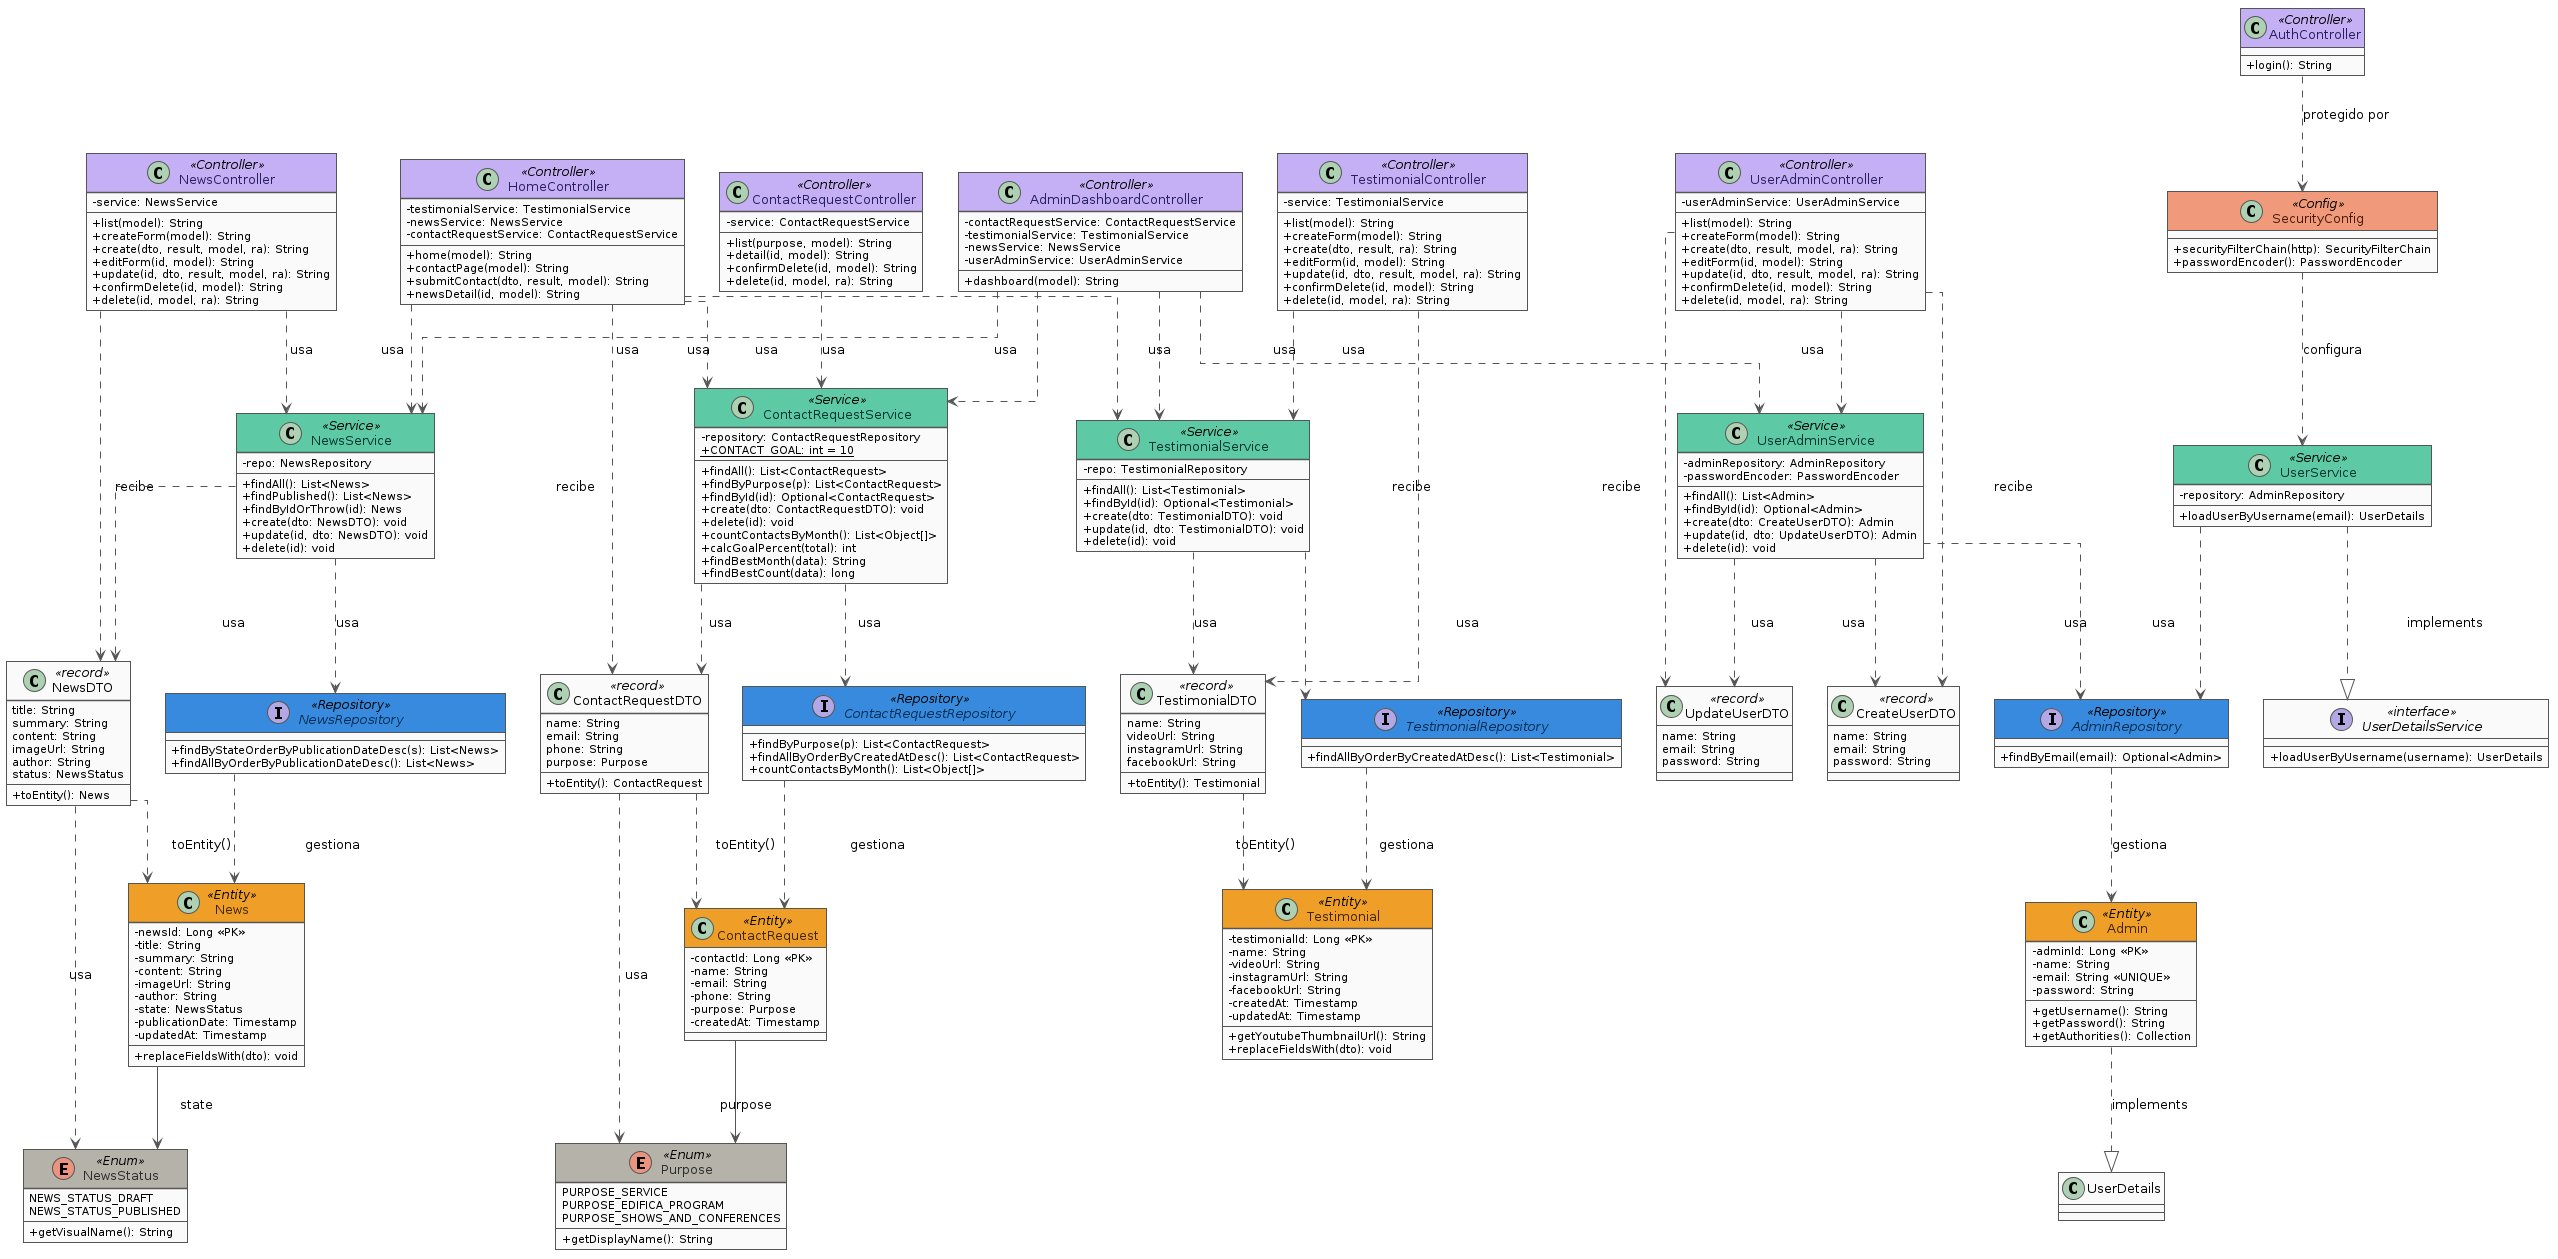
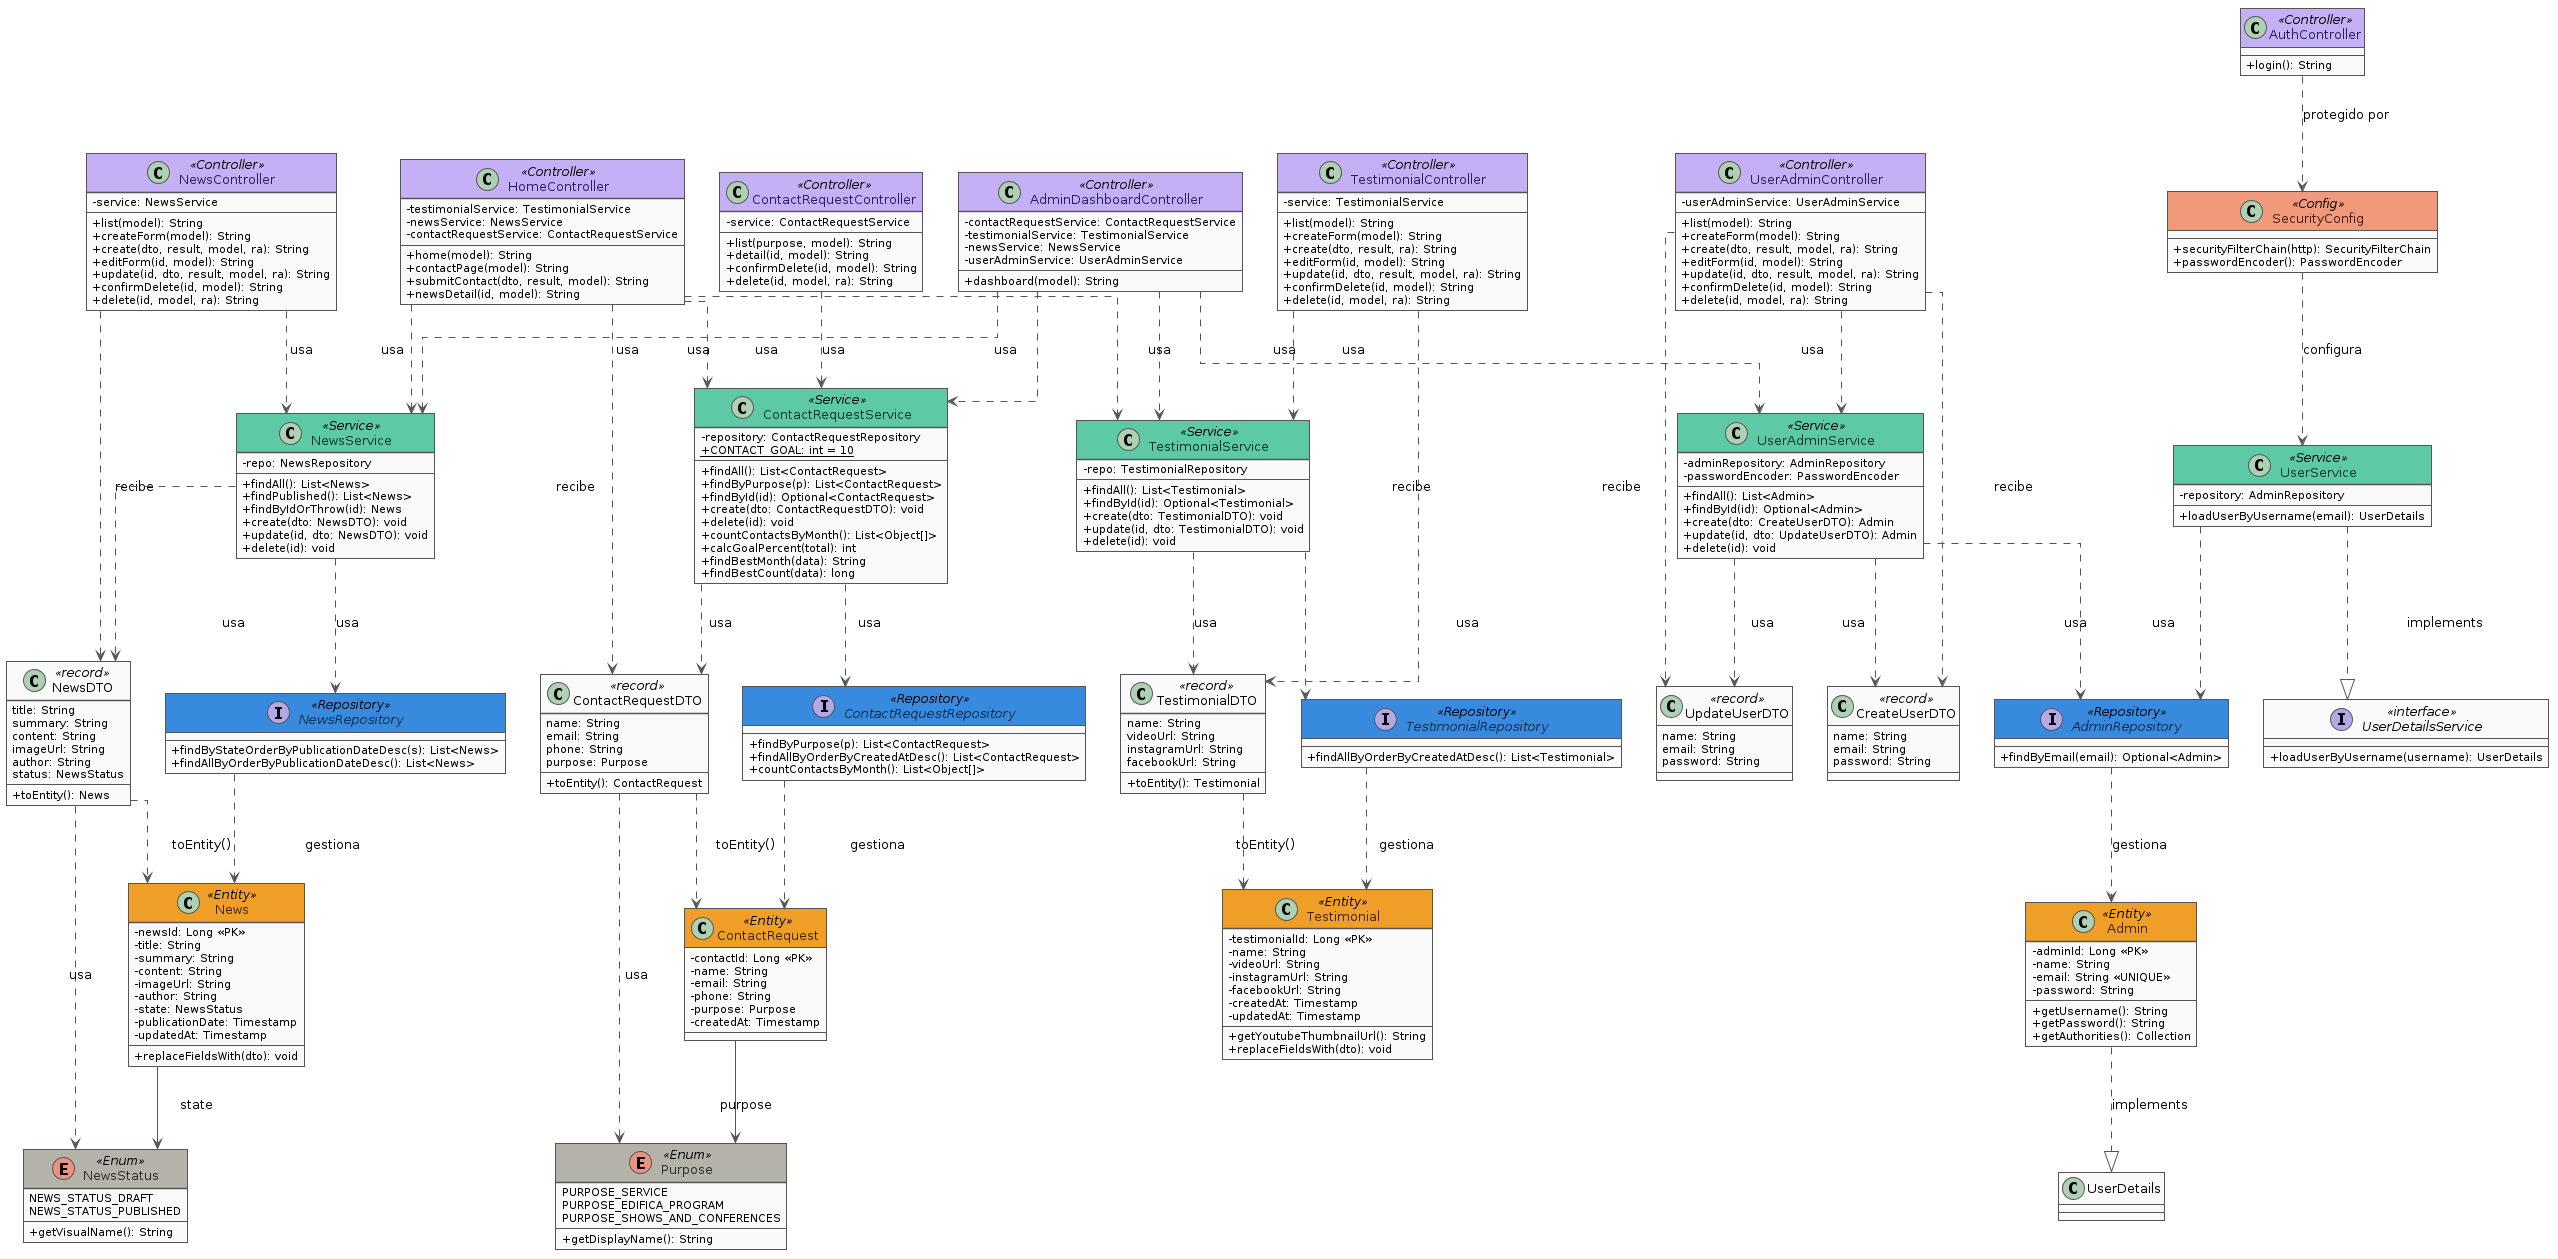
docs: agregar capturas de crear, editar y eliminar para noticias, testimonios y contactos

diff --git a/README.md b/README.md
@@ -216,8 +216,16 @@ Proyecto_Desarrollo_Empresarial/
 │   ├── ui-admin-dashboard.png
 │   ├── ui-admin-dashboard-grafica.png
 │   ├── ui-admin-noticias.png
+│   ├── ui-admin-noticias-crear.png
+│   ├── ui-admin-noticias-editar.png
+│   ├── ui-admin-noticias-eliminar.png
 │   ├── ui-admin-testimonios.png
-│   └── ui-admin-contactos.png
+│   ├── ui-admin-testimonios-crear.png
+│   ├── ui-admin-testimonios-editar.png
+│   ├── ui-admin-testimonios-eliminar.png
+│   ├── ui-admin-contactos.png
+│   ├── ui-admin-contactos-detalle.png
+│   └── ui-admin-contactos-eliminar.png
 ├── build.gradle          ← Dependencias y plugins (Spring Boot 4.0.5, Java 21, Gradle 8.7)
 ├── settings.gradle       ← Nombre del proyecto: LatinoamericaComparte
 ├── README.md             ← Documentación del proyecto
@@ -342,16 +350,24 @@ Tarjetas con conteos de testimonios, noticias, solicitudes y administradores. Gr
 Lista todas las noticias con estado (Publicado/Borrador) y fecha. Permite crear, editar y eliminar noticias con formulario de previsualización en tiempo real. Las noticias en Borrador no son visibles en el home público.
 
 ![Panel de noticias](docs/ui-admin-noticias.png)
+![Crear noticia](docs/ui-admin-noticias-crear.png)
+![Editar noticia](docs/ui-admin-noticias-editar.png)
+![Eliminar noticia](docs/ui-admin-noticias-eliminar.png)
 
 ### Panel Admin — Gestión de Testimonios (`/admin/testimonials`)
 Muestra testimonios con miniatura automática del video de YouTube. Permite crear, editar y eliminar testimonios indicando nombre, URL del video y redes sociales.
 
 ![Panel de testimonios](docs/ui-admin-testimonios.png)
+![Crear testimonio](docs/ui-admin-testimonios-crear.png)
+![Editar testimonio](docs/ui-admin-testimonios-editar.png)
+![Eliminar testimonio](docs/ui-admin-testimonios-eliminar.png)
 
 ### Panel Admin — Solicitudes de Contacto (`/admin/contacts`)
 Lista de solicitudes ordenadas de más reciente a más antigua con filtro por propósito. Permite ver el detalle completo de cada solicitud con filas expandibles y eliminarlas.
 
 ![Buzón de contactos](docs/ui-admin-contactos.png)
+![Detalle de contacto](docs/ui-admin-contactos-detalle.png)
+![Eliminar contacto](docs/ui-admin-contactos-eliminar.png)
 
 ---
 